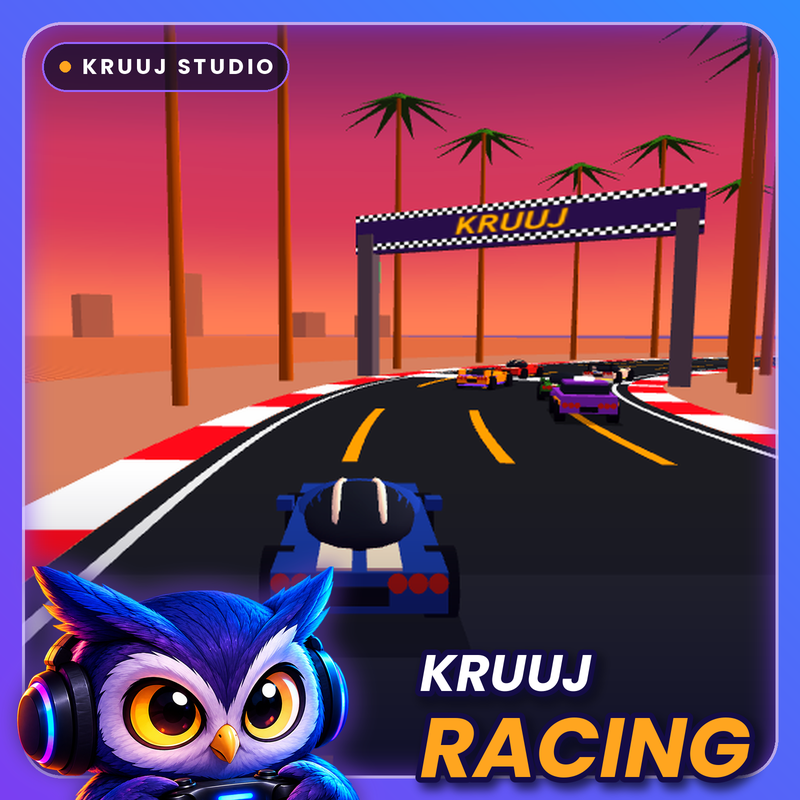
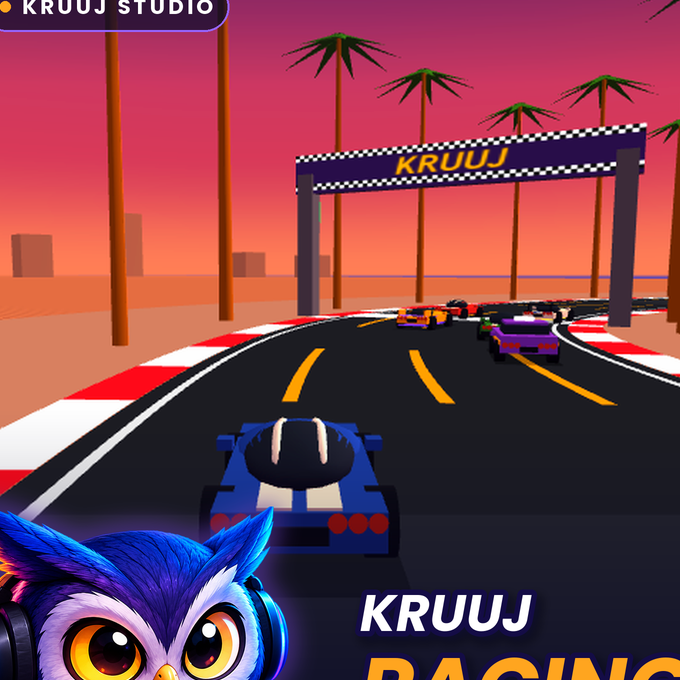
fix(assets): crop artificial borders and implement Poki-grade edge-to-edge card overlay framing for all dynamic screen sizes

diff --git a/apps/web/src/index.css b/apps/web/src/index.css
@@ -4614,6 +4614,14 @@ box-shadow: 0 0 20px rgba(255, 0, 127, 0.5) !important;
   transform: translateY(-4px);
 }
 
+.kruuj-banner-novelty {
+  background-position: center 32% !important;
+}
+
+.kruuj-banner-trending {
+  background-position: center 36% !important;
+}
+
 .kruuj-banner-novelty:hover {
   border-color: rgba(56, 189, 248, 0.6);
   box-shadow: 0 16px 42px rgba(56, 189, 248, 0.25);
@@ -5139,10 +5147,10 @@ box-shadow: 0 0 20px rgba(255, 0, 127, 0.5) !important;
 }
 
 .kruuj-poki-thumb {
-  position: relative;
+  position: absolute;
+  inset: 0;
   width: 100%;
-  flex: 1;
-  min-height: 0;
+  height: 100%;
   overflow: hidden;
   background: #090d1a;
 }
@@ -5151,6 +5159,7 @@ box-shadow: 0 0 20px rgba(255, 0, 127, 0.5) !important;
   width: 100%;
   height: 100%;
   object-fit: cover;
+  object-position: center 36%;
   transition: transform 0.35s ease;
 }
 
@@ -5250,10 +5259,17 @@ box-shadow: 0 0 20px rgba(255, 0, 127, 0.5) !important;
 }
 
 .kruuj-poki-meta {
-  padding: 10px 12px;
+  position: absolute;
+  bottom: 0;
+  left: 0;
+  right: 0;
+  padding: 32px 12px 10px 12px;
+  background: linear-gradient(to top, rgba(7, 11, 28, 0.96) 0%, rgba(7, 11, 28, 0.72) 48%, rgba(7, 11, 28, 0.15) 82%, transparent 100%);
   display: flex;
   flex-direction: column;
   gap: 2px;
+  z-index: 2;
+  pointer-events: none;
 }
 
 .kruuj-poki-title {
